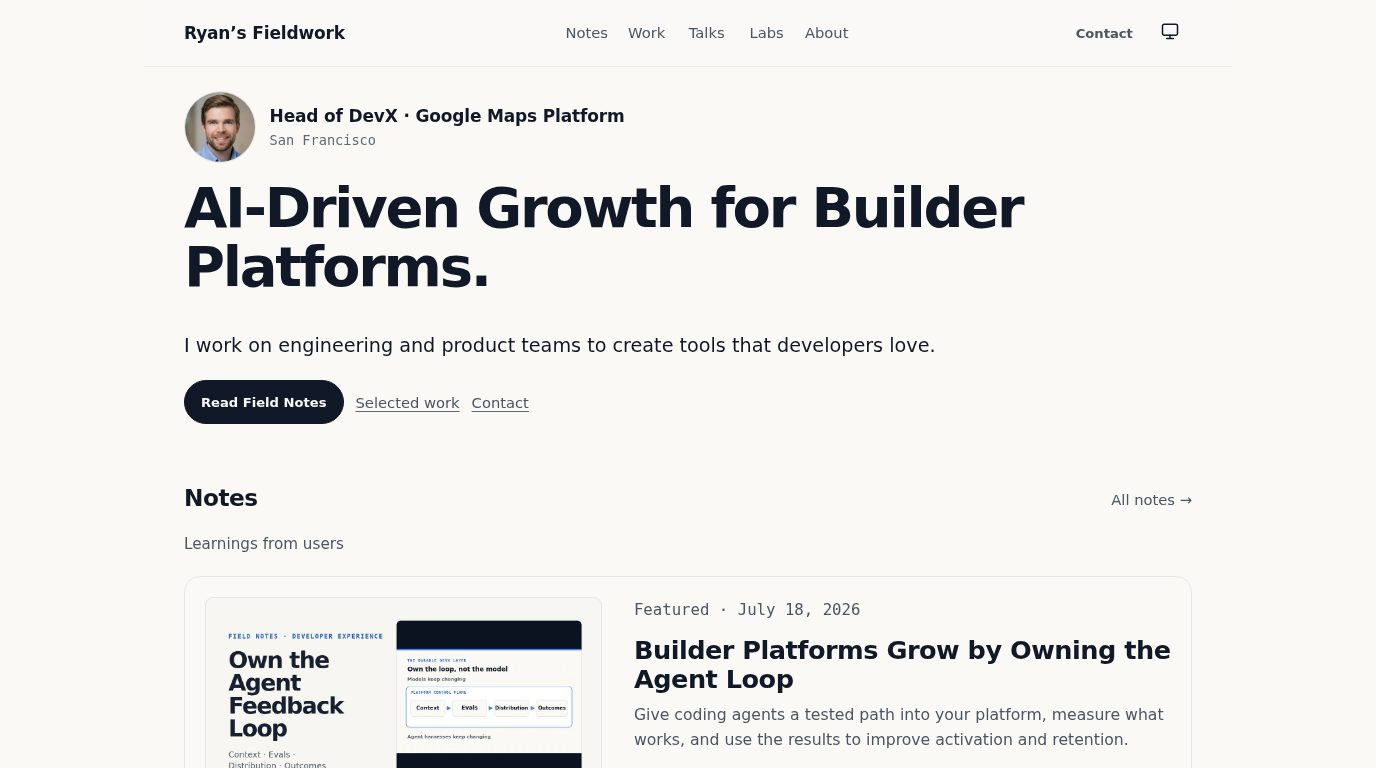
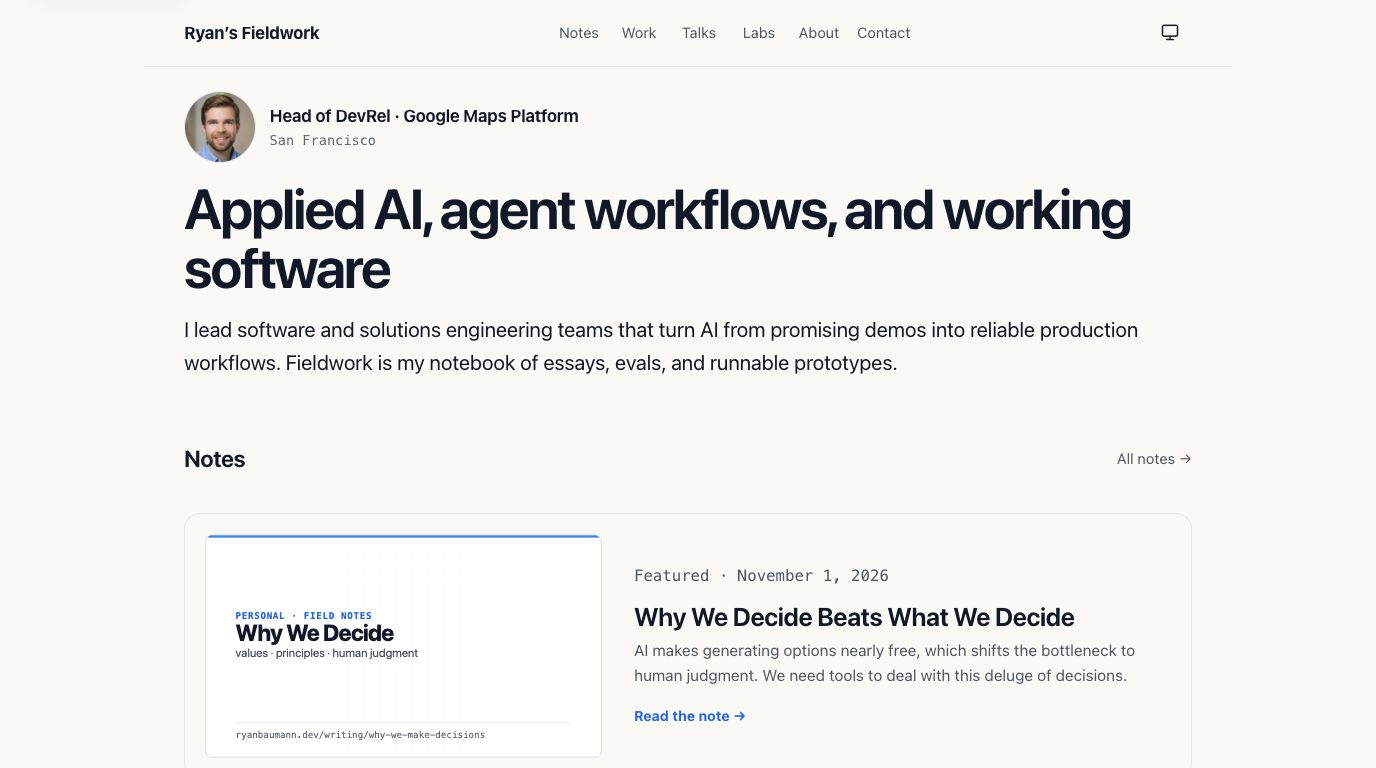
content(portfolio): align Fieldwork copy to Head of DevRel, applied AI workflows, and industry solutions

diff --git a/gateway/test/server.test.js b/gateway/test/server.test.js
@@ -582,6 +582,16 @@ test('contact delivery validates intent and marks only provider-confirmed succes
     assert.match(delivered[4].subject, /^\[Check\] \[Other\]/);
     assert.match(delivered[4].text, /Flags: sent without JavaScript; email domain has no mail server/);
 
+    const appliedAiSuccess = await postForm(port, '/api/contact', {
+      ...valid,
+      intent: 'Applied AI or engineering discussion',
+    }, { ...browser, 'x-forwarded-for': '203.0.113.10, proxy', 'User-Agent': 'TestBrowser/1.0' });
+    assert.equal(appliedAiSuccess.res.statusCode, 303);
+    assert.equal(appliedAiSuccess.res.headers.location, '/contact-success/?delivered=1');
+    assert.equal(delivered.length, 6);
+    assert.equal(delivered[5].subject, '[Applied AI or engineering discussion] Portfolio contact from Ada Lovelace');
+    assert.match(delivered[5].text, /^Intent: Applied AI or engineering discussion\nName: Ada Lovelace/);
+
     globalThis.fetch = async () => ({ ok: false, status: 500 });
     const rejected = await postForm(port, '/api/contact', {
       ...valid,

diff --git a/gateway/server.js b/gateway/server.js
@@ -63,6 +63,7 @@ const REDIRECT_SITE_HOSTS = new Set([
   'www.ryanbaumann-portfolio.com',
 ]);
 const CONTACT_INTENTS = Object.freeze([
+  'Applied AI or engineering discussion',
   'Developer platform discussion',
   'Content collaboration',
   'Speaking opportunity',

diff --git a/scripts/local_gemma.py b/scripts/local_gemma.py
@@ -179,7 +179,7 @@ def review_copy(model, tokenizer, target_path_or_text: str, max_tokens: int = 40
         "Assess:\n"
         "1. Voice & Cadence: Active first-person, direct, growth-backwards framing (Result -> Shipped -> Lesson).\n"
         "2. Cliché & AI-Tell Check: Scan for em-dashes, passive voice for own work, corporate buzzwords, and vague claims.\n"
-        "3. Opening Hook: Does it land on real developer friction or a quoted objection?\n"
+        "3. Opening Hook: Does it land on real operational or developer friction, a concrete workflow failure, or a quoted objection?\n"
         "4. Concrete Line-by-Line Rewrites: Provide specific, tightened rewrites for the weakest sections.\n\n"
         f"--- COPY TO REVIEW ---\n{text}"
     )
@@ -204,10 +204,10 @@ def generate_headlines(model, tokenizer, topic_or_summary: str, max_tokens: int 
     return generate_text(model, tokenizer, prompt, max_tokens=max_tokens)
 
 def generate_social(model, tokenizer, target_path_or_text: str, max_tokens: int = 1024) -> str:
-    """Generate concise, developer-focused social copy (< 120 words)."""
+    """Generate concise, practitioner-focused social copy (< 120 words)."""
     text = resolve_target_text(target_path_or_text)
     prompt = (
-        f"Write a concise developer social post (< 120 words) summarizing this work. "
+        f"Write a concise practitioner social post (< 120 words) summarizing this work. "
         f"Lead with the binding constraint or metric shipped, avoid hashtags and launch hype:\n\n{text}"
     )
     return generate_text(model, tokenizer, prompt, max_tokens=max_tokens)

diff --git a/scripts/ryan_voice.py b/scripts/ryan_voice.py
@@ -164,7 +164,7 @@ def review_copy(content_or_path: str, **kwargs) -> str:
         "Assess:\n"
         "1. Voice & Cadence: Active first-person, direct, growth-backwards framing (Result -> Shipped -> Lesson).\n"
         "2. Cliché & AI-Tell Check: Scan for em-dashes, passive voice for own work, corporate buzzwords, and vague claims.\n"
-        "3. Opening Hook: Does it land on real developer friction or a quoted objection?\n"
+        "3. Opening Hook: Does it land on real operational or developer friction, a concrete workflow failure, or a quoted objection?\n"
         "4. Concrete Line-by-Line Rewrites: Provide specific rewrites for the weakest sections.\n\n"
         f"--- COPY TO REVIEW ---\n{text}"
     )

diff --git a/portfolio/content/pages/resume.md b/portfolio/content/pages/resume.md
@@ -1,28 +1,28 @@
 ---
 title: Resume
-summary: Developer platform leadership, shipped developer tools, and open-source systems.
+summary: Software and solutions engineering leadership across applied AI, 0-to-1 products, and enterprise workflows.
 eyebrow: Experience
 socialImage: /social/resume.jpg
 shareTitle: Ryan Baumann Resume
-shareSummary: Fifteen years of developer platform work, with the artifacts behind each claim.
-shareImageAlt: Ryan Baumann beside a summary of his Developer Experience Engineering work.
+shareSummary: Fifteen years turning new technical capabilities into working systems across Google, Instabase, Mapbox, and Caterpillar.
+shareImageAlt: Ryan Baumann beside a summary of his software, applied AI, and solutions engineering work.
 ---
 
-I lead Developer Experience Engineering and product for builder platforms. I turn recurring developer problems into shipped tools, evals, and reusable paths for humans and AI coding agents.
+I lead software, product, and solutions engineering teams that turn emerging capabilities, especially AI agents, into reliable production workflows. Over 15+ years at Google, Instabase, Mapbox, and Caterpillar, I've built 0-to-1 products and customer-facing engineering teams across manufacturing, financial services and insurance, logistics, and the public sector.
 
 ## Current focus
 
-**Head of Developer Experience, Google Maps Platform** (2022 to present)
+**Head of DevRel, Google Maps Platform** (2022 to present)
 
-- I partner across product, engineering, UX, technical writing, and field teams to turn repeated friction into product and distribution improvements.
-- I set the direction for the teams that shipped [Code Assist](https://developers.google.com/maps/ai/code-assist), [agent skills](https://github.com/googlemaps/agent-skills), agentic evals, and the [Geo Architecture Center](https://developers.google.com/maps/architecture).
+- I lead engineering and cross-functional teams building applied AI systems, grounded MCP services, and evaluation harnesses that move builders and enterprise teams from prototype to production.
+- I set the strategy and technical direction for [Code Assist](https://developers.google.com/maps/ai/code-assist), [agent skills](https://github.com/googlemaps/agent-skills), task-based agentic evals, an AI-driven Voice of Developer program, and the [Geo Architecture Center](https://developers.google.com/maps/architecture).
 
 ## Earlier roles
 
-- **Manufacturing Industry Solutions Manager, Google Cloud** (2021 to 2022). I led product and engineering for [Intelligent Product Essentials](https://cloud.google.com/blog/products/data-analytics/introducing-intelligent-products-essentials-for-manufacturers), from zero to launch with GE Appliances in nine months.
-- **Director, Solutions Architecture, Instabase** (2020 to 2021). I built the solutions architecture team for an AI platform focused on unstructured document automation.
-- **Senior Manager and Senior Solutions Architect, Mapbox** (2016 to 2020). I joined as the first customer-facing engineer, later led solutions architecture, and helped launch developer products and open-source partnerships.
-- **Technical Solutions Engineer, Caterpillar** (2012 to 2016). I built a cloud, IoT, mobile, and analytics worksite productivity system for fleet operations.
+- **Manufacturing Industry Solutions Manager, Google Cloud** (2021 to 2022). I led the product and engineering team for [Intelligent Product Essentials](https://cloud.google.com/blog/products/data-analytics/introducing-intelligent-products-essentials-for-manufacturers), combining edge AI and cloud analytics from zero to launch with GE Appliances in nine months.
+- **Director, Solutions Architecture, Instabase** (2020 to 2021). I built and led the solutions architecture team landing applied AI workflows for unstructured document automation across financial services, insurance, and public-sector customers.
+- **Senior Manager and Senior Solutions Architect, Mapbox** (2016 to 2020). I joined as the first customer-facing engineer, grew customer engineering from 1 to 15, and took [Boundaries](https://www.mapbox.com/boundaries) and [Atlas](https://www.mapbox.com/atlas) from zero to one for logistics, enterprise, and air-gapped public-sector deployments.
+- **Technical Solutions Engineer, Caterpillar** (2012 to 2016). I built a cloud, IoT, mobile, and analytics worksite productivity system deployed across 50+ job sites and co-invented three US patents.
 
 ## Education and foundation
 

diff --git a/portfolio/content/pages/about.md b/portfolio/content/pages/about.md
@@ -1,22 +1,22 @@
 ---
 title: About
 eyebrow: Background
-summary: Ryan Baumann leads Developer Experience Engineering and product for builder platforms.
+summary: Ryan Baumann leads software, product, and solutions engineering teams building applied AI workflows and platforms.
 image: /img/ryan-baumann-profile.jpg
 imageAlt: Headshot of Ryan Baumann wearing a blue shirt.
 socialImage: /social/about.jpg
 shareTitle: Ryan Baumann
-shareSummary: Why I treat developer friction as a growth problem.
-shareImageAlt: Ryan Baumann beside his focus on tools, evals, and AI coding agents.
+shareSummary: How I turn new AI capabilities and field friction into working software.
+shareImageAlt: Ryan Baumann beside his focus on applied AI, evals, and working systems.
 ---
 
-I lead Developer Experience Engineering for Google Maps Platform. I build systems that turn recurring developer friction into shipped tools, clearer paths, and measurable adoption.
+I'm Head of DevRel at Google Maps Platform. Across my career in software, product, and solutions engineering, I've focused on one problem: taking new technical capabilities, especially AI, and landing them as reliable software in real customer workflows.
 
-My team works across product, engineering, UX, technical writing, and field teams. Recent work includes [Code Assist](https://developers.google.com/maps/ai/code-assist), [agent skills](https://github.com/googlemaps/agent-skills), agentic evals, the [Geo Architecture Center](https://developers.google.com/maps/architecture), and open-source client libraries.
+My team works across product, engineering, UX, technical writing, and field teams. Recent work includes [Code Assist](https://developers.google.com/maps/ai/code-assist), [agent skills](https://github.com/googlemaps/agent-skills), task-based agentic evals, an AI-driven Voice of Developer program, and the [Geo Architecture Center](https://developers.google.com/maps/architecture).
 
-I shape this work directly: whether that's writing the first evals for a new agent or shipping a reference app to test our own friction. The loop is simple: find a problem that repeats, build the smallest useful artifact, test whether it helps, and publish what others can reuse. I've explained the operating model in [DevX Is a Growth Function](/writing/devx-is-a-growth-discipline/).
+I stay close to the code: writing the first evals for a new agent, debugging retrieval traces, or shipping a reference app to see where a workflow breaks under real constraints. Getting durable value from AI follows a simple loop: find a bottleneck that repeats, ground the system in live context, grade it against real tasks, and ship what teams can actually run. I've written about that operating model in [DevX Is a Growth Function](/writing/devx-is-a-growth-discipline/).
 
-Before this role, I led product and engineering for [Intelligent Product Essentials](https://cloud.google.com/blog/products/data-analytics/introducing-intelligent-products-essentials-for-manufacturers) at Google Cloud. I've also built the solutions architecture team at Instabase and worked as Mapbox's first customer-facing engineer. There, the team launched Boundaries and Atlas, while I wrote open-source tools for Python notebooks and Power BI. Earlier in my career, I built connected-worksite systems at Caterpillar.
+Before this role, I spent a decade building industry solutions and customer-facing engineering teams across manufacturing, financial services and insurance, logistics, and the public sector. At Google Cloud, I led the product and engineering team for [Intelligent Product Essentials](https://cloud.google.com/blog/products/data-analytics/introducing-intelligent-products-essentials-for-manufacturers), an edge-AI and analytics product launched with GE Appliances. Earlier, I built the solutions architecture team for applied document AI at Instabase, joined Mapbox as its first customer-facing engineer (launching Boundaries, on-premises Atlas for regulated deployments, and open-source libraries for Python notebooks and Power BI), and built connected-worksite systems at Caterpillar.
 
 I studied mechanical engineering at the University of Wisconsin-Madison, but before writing software, I raced professionally for Trek-Livestrong and Bahati Foundation. Racing taught me to pace long efforts, measure the right signal, and keep looking for the next useful improvement. I still love the outdoors and pushing myself gravel riding and trail running.
 

diff --git a/CHANGELOG.md b/CHANGELOG.md
@@ -4,6 +4,12 @@ All notable changes to this project will be documented in this file.
 
 ## [Unreleased]
 
+- **Applied AI & cross-industry solutions positioning, homepage card rebalance, and voice alignment (`portfolio/`, `apps.json`, `gateway/`, `scripts/`, `docs/PORTFOLIO_EVIDENCE_LEDGER.md`, `evals/contact-qualifier/`)**:
+  - Updated site positioning in `portfolio/content/site.json`, `portfolio/build.mjs` (`SECTION_DESCRIPTIONS`, Schema.org `Person.knowsAbout`, homepage closing CTA, contact form intents), `portfolio/content/pages/{about,resume,contact}.md`, `README.md`, `portfolio/README.md`, and `docs/PORTFOLIO_EVIDENCE_LEDGER.md` to use `Head of DevRel · Google Maps Platform` and highlight 15+ years of software, product, and solutions engineering across applied AI workflows, manufacturing, financial services and insurance, logistics, and the public sector.
+  - Updated `loadCollection()` in `portfolio/build.mjs` to break equal/empty `date` ties by ascending `meta.order` so dateless `work` entries sort deterministically across `/` and `/work/`; rebalanced `portfolio/content/work/*.md` orders to feature `Code Assist MCP`, `Agentic Eval Suite`, and `Intelligent Product Essentials` on the homepage, and reordered `apps.json` so `Labs` leads with `Atlas: Real-World Reasoning Agent`, `Infographic Agent`, `Hairstyle AI Studio`, and `Strava 3D Explorer`.
+  - Added `'Applied AI or engineering discussion'` alongside `'Developer platform discussion'` in `gateway/server.js` (`CONTACT_INTENTS`), updated `portfolio/test/build.test.mjs`, `gateway/test/server.test.js`, and `evals/contact-qualifier/rubrics.v1.json`, refreshed `portfolio/static/previews/fieldwork.{jpg,webp}`, and regenerated `portfolio/static/social/{home,about,resume,contact,work-intelligent-product-essentials,code-assist-video}.jpg` via `scripts/social-cards.mjs`.
+  - Extended `scripts/lib/content-rules.mjs` (and `scripts/test/check-content.test.mjs`) to exempt `solutions leader` / `solutions leadership` alongside existing formal solutions titles while keeping bare `solution`/`solutions` blocked, and aligned `~/.gemini/config/skills/portfolio-writing/SKILL.md`, `scripts/local_gemma.py`, and `scripts/ryan_voice.py` to applied-AI and operational workflow framing.
+
 - **Daily security job no-op rollback, automatic audit-exception pruning, and PAT guidance (`scripts/auto-update-security-deps.mjs`, `scripts/test/auto-update-security-deps.test.mjs`, `.github/workflows/security-updates.yml`)**:
   - Updated `scripts/auto-update-security-deps.mjs` to roll back `npm audit fix` lockfile metadata churn whenever zero vulnerabilities are resolved or package verification fails, honor active unpatched exceptions from `.github/audit-exceptions.json` when computing `excusedAfter` / `unexcusedAfter` exit codes, and automatically prune `.github/audit-exceptions.json` entries in `--fix` mode once no lockfile target matches them.
   - Updated `.github/workflows/security-updates.yml` to run `scripts/ci-audit.mjs` on modified packages during pre-PR verification, format commit messages for pruned exceptions, emit an explicit `SECURITY_UPDATES_TOKEN` error when `gh pr create` lacks PAT permissions, and deleted the stale `origin/chore/auto-security-updates` no-op branch.

diff --git a/LEARNINGS.md b/LEARNINGS.md
@@ -2,6 +2,16 @@
 
 This log captures durable lessons discovered while building and maintaining the portfolio and demo lab, keeping the root instructions lean.
 
+## 2026-11-19 - `loadCollection()` needed a `meta.order` tie-breaker for dateless `work` entries
+
+Context: Rebalancing homepage `Selected work` cards by editing `order` in `portfolio/content/work/*.md` while preserving reverse-chronological sorting for `writing` and `talks`.
+
+Learning: `loadCollection()` in `portfolio/build.mjs` previously sorted only by `String(b.meta.date || '').localeCompare(String(a.meta.date || ''))`, while `buildHome()` extracted only the single lowest-`order` `pinnedWork` item and filled the remaining two homepage slots from `loadCollection('work')` order. Because `work/*.md` entries carry `period` instead of `date`, `localeCompare` returned `0` for every pair, falling back to alphabetical filename order (`agent-skills.md`, `agentic-evals.md`, `agentic-growth.md`) and leaving `order` ignored on both `/work/` and homepage slots 2 and 3. Breaking equal/`""` `date` ties by `(a.meta.order ?? Infinity) - (b.meta.order ?? Infinity)` fixes dateless `work` ordering across both `/` and `/work/` without changing reverse-chronological `writing` or `talks` order.
+
+Evidence: Added regression test `'dateless work entries sort by ascending order on home and work index while dated writing keeps reverse-chronological order'` in `portfolio/test/build.test.mjs`, and verified homepage `Selected work` renders `Code Assist MCP`, `Agentic Eval Suite`, and `Intelligent Product Essentials`.
+
+Use next time: Whenever a collection sorts by `date` and supports `order`, include `meta.order` as a tie-breaker inside `loadCollection()` rather than sorting only a single pinned item at the call site.
+
 ## 2026-11-18 - `npm audit fix` no-op lockfile churn, automatic audit-exception pruning, and `GITHUB_TOKEN` PR limits
 
 Context: Auditing `.github/workflows/security-updates.yml` and `scripts/auto-update-security-deps.mjs` after adding `.github/audit-exceptions.json` for `GHSA-fc5q-39xc-vjpf`.

diff --git a/docs/PORTFOLIO_EVIDENCE_LEDGER.md b/docs/PORTFOLIO_EVIDENCE_LEDGER.md
@@ -1,6 +1,6 @@
 # Fieldwork Evidence Ledger
 
-Last reviewed: 2026-07-16
+Last reviewed: 2026-11-19
 
 Use this ledger before publishing a material claim or adding a product artifact.
 The approved copy is the widest claim currently supported. Team work must credit
@@ -59,6 +59,8 @@ Statuses:
 | Talks and videos | `public-source` | Talk titles, venues, dates, decks, and videos may be described as their public pages show. | Links in `portfolio/content/talks/` | 2026-07-13 | Treat `next million makers` and similar language as a talk thesis, not a measured outcome. |
 | Writing entries | `public-source` | Titles and summaries may reflect the linked canonical posts. | Canonical links in `portfolio/content/writing/` | 2026-07-13 | Use `series`, not `weekly series`, unless the archive demonstrates weekly cadence. |
 | Fifteen-plus years of experience | `observable` | 15+ years building platforms at Google, Mapbox, Instabase, and Caterpillar. | Public chronology on the About page | 2026-07-13 | Apply one consistent career-start definition. |
+| Current Google Maps Platform title shorthand | `approved-internal` | Head of DevRel, Google Maps Platform | Ryan approval | 2026-11-19 | Approved title shorthand across Fieldwork profile, resume, about, and metadata. |
+| Cross-industry solutions scope | `approved-internal` | Built 0-to-1 products and customer-facing engineering teams across manufacturing, financial services and insurance, logistics, and public sector. | Ryan approval | 2026-11-19 | Maps directly to Caterpillar/Google Cloud (manufacturing), Instabase (financial services, insurance, public sector), and Mapbox (`Boundaries`, on-prem/air-gapped `Atlas` for logistics, enterprise, and public sector). |
 
 ## Approved public asset candidates
 

diff --git a/portfolio/content/work/agentic-evals.md b/portfolio/content/work/agentic-evals.md
@@ -12,7 +12,7 @@ shareTitle: Agentic Eval Suite
 shareSummary: Task-based comparisons that turn AI developer-tool quality into a launch decision.
 shareImageAlt: Agentic Eval Suite beside a task-to-launch evaluation loop.
 featured: true
-order: 5
+order: 2
 ---
 
 ## The goal
@@ -25,4 +25,4 @@ My team and I built task-based evals for Google Maps Platform. We benchmark code
 
 ## What I learned
 
-Measurement turns developer experience investments into decisions. Once an evaluated change has a baseline and a delta, the team can put the effort where the result moves. The operating method starts with real tasks, not polished demos.
+Measurement turns AI and platform investments into engineering decisions. Once an evaluated change has a baseline and a delta, the team can put the effort where the result moves. The operating method starts with real tasks, not polished demos.

diff --git a/portfolio/README.md b/portfolio/README.md
@@ -1,9 +1,9 @@
 # Fieldwork
 
-Ryan Baumann's developer notebook: [work](https://ryanbaumann.dev/work/),
-Field Notes, talks, and Labs, from 15+ years building developer platforms
-as a growth engine, currently as Head of Developer Experience at Google Maps
-Platform. Fieldwork is served at the root of
+Ryan Baumann's engineering notebook: [work](https://ryanbaumann.dev/work/),
+Field Notes, talks, and Labs, from 15+ years building applied AI workflows,
+industry solutions, and developer platforms, currently as Head of DevRel at
+Google Maps Platform. Fieldwork is served at the root of
 [ryanbaumann.dev](https://ryanbaumann.dev/).
 
 Built to be **bare bones, fast, and easy to update**: a zero-dependency

diff --git a/portfolio/content/pages/contact.md b/portfolio/content/pages/contact.md
@@ -8,4 +8,4 @@ shareSummary: Start with the thing you are building and the friction in the way.
 shareImageAlt: Ryan Baumann beside an invitation to start with the thing you are trying to build.
 ---
 
-If you're building with maps, working on developer tools, or want to talk through an essay or speaking event, send me a note. I'm not available for outside consulting while employed at Google.
+If you're landing AI workflows in production, building agent systems, or want to talk through an essay or speaking event, send me a note. I'm not available for outside consulting while employed at Google.
